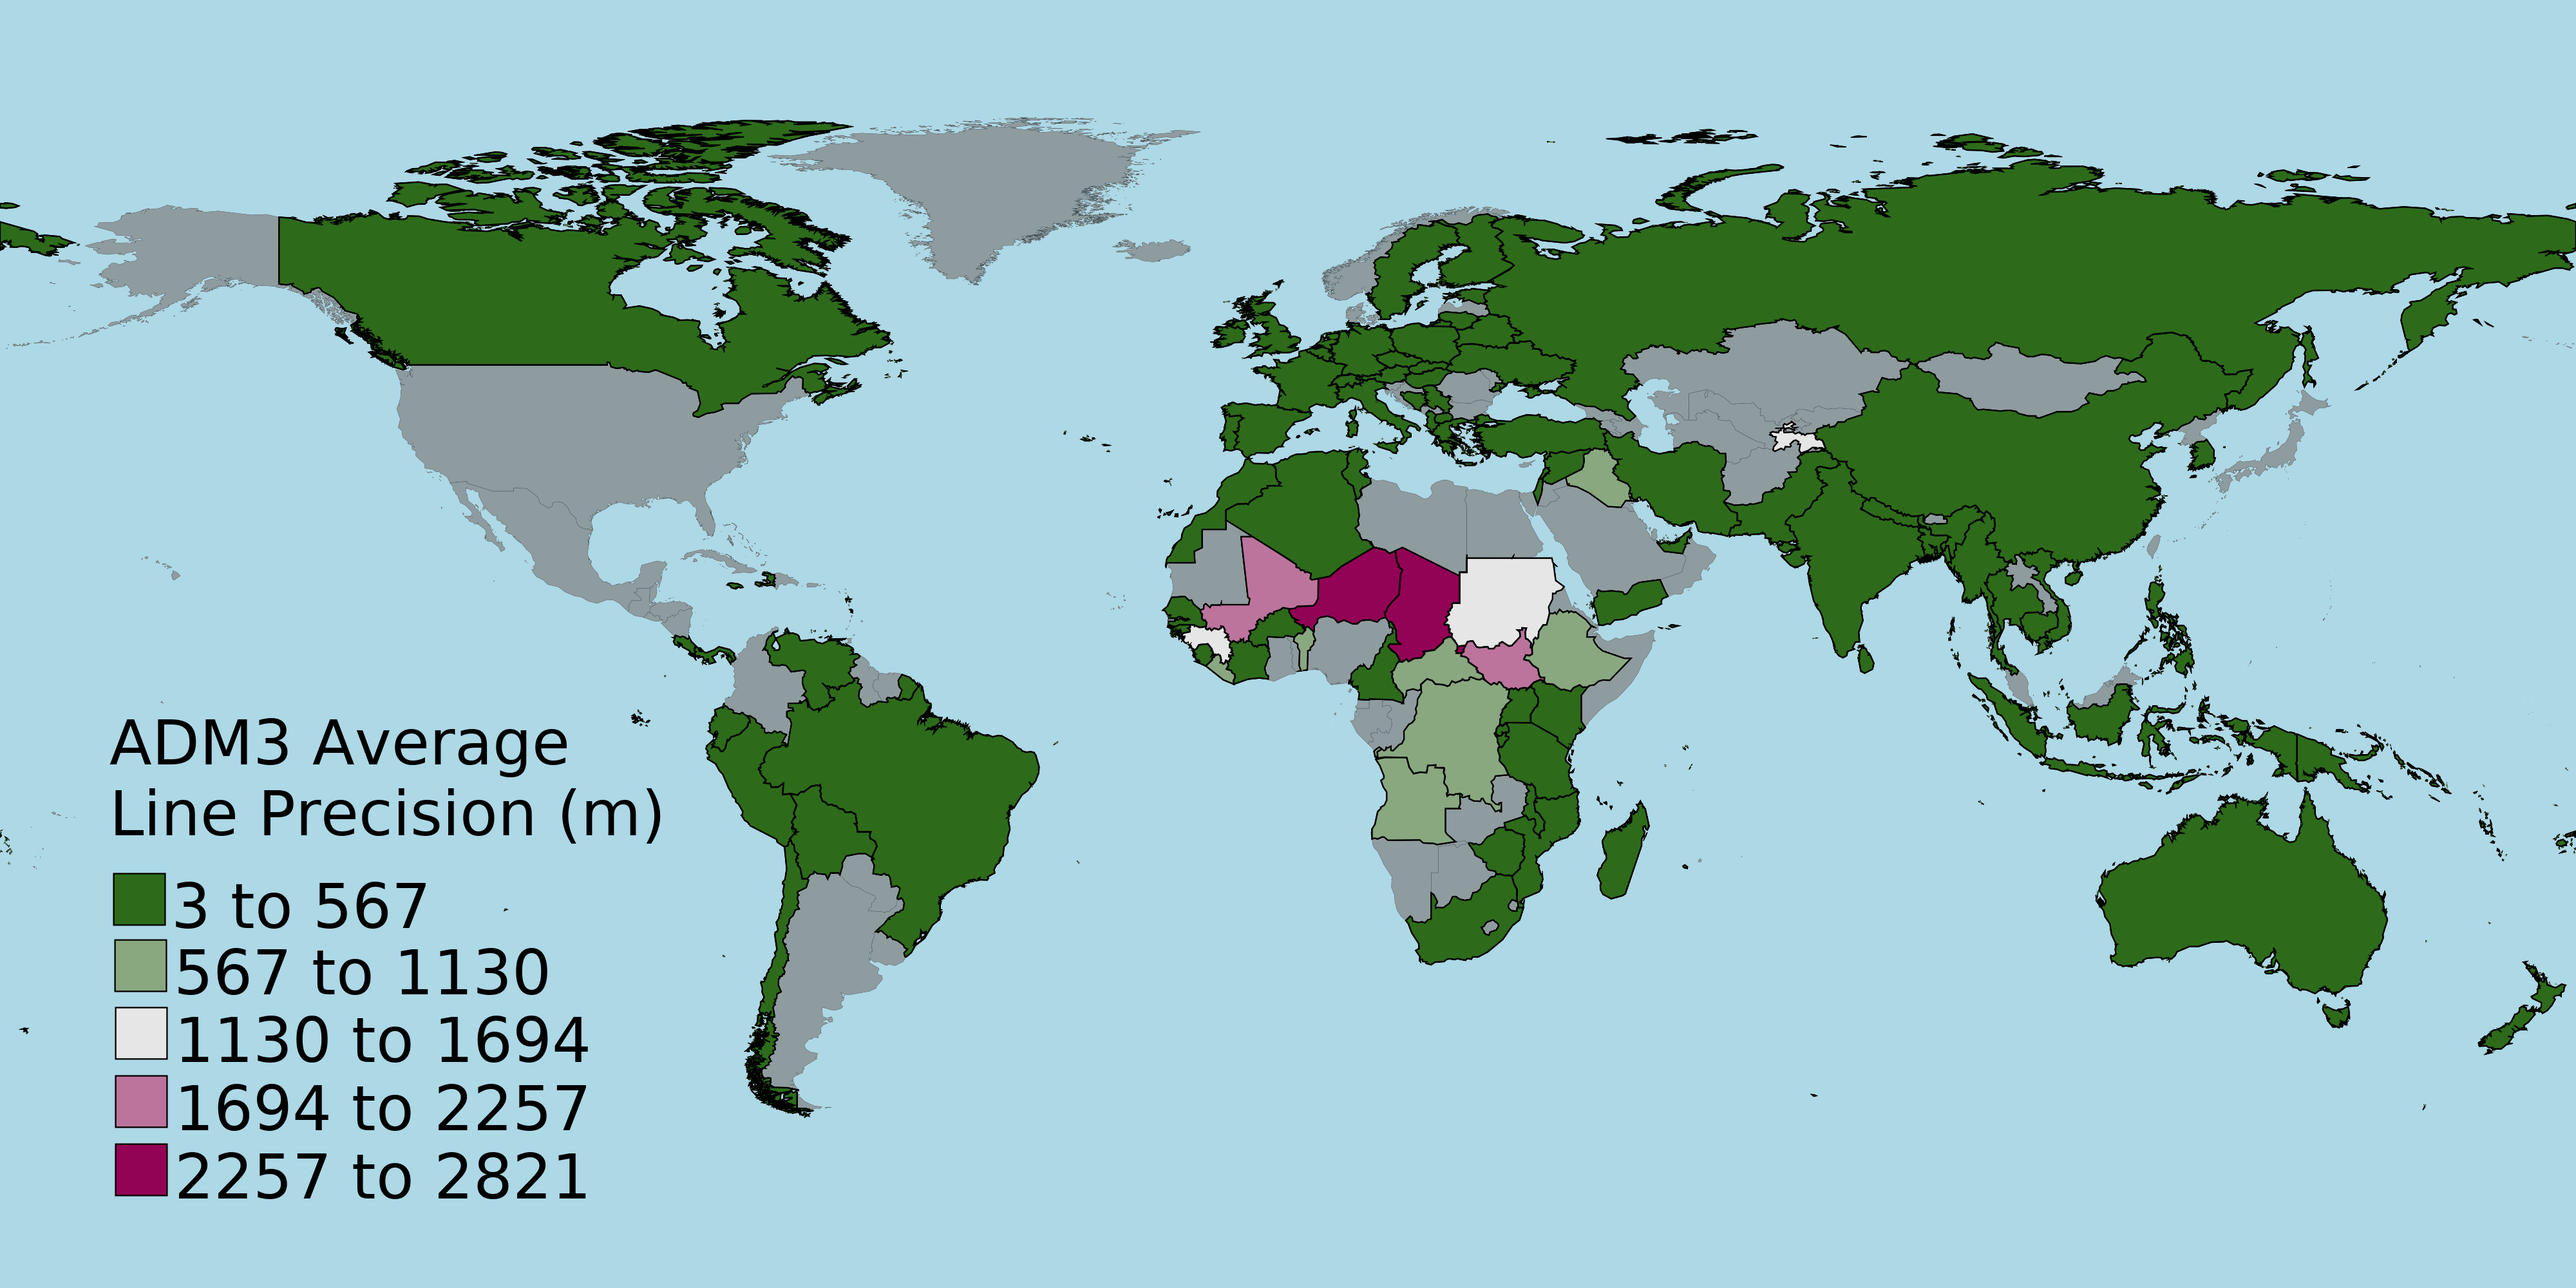
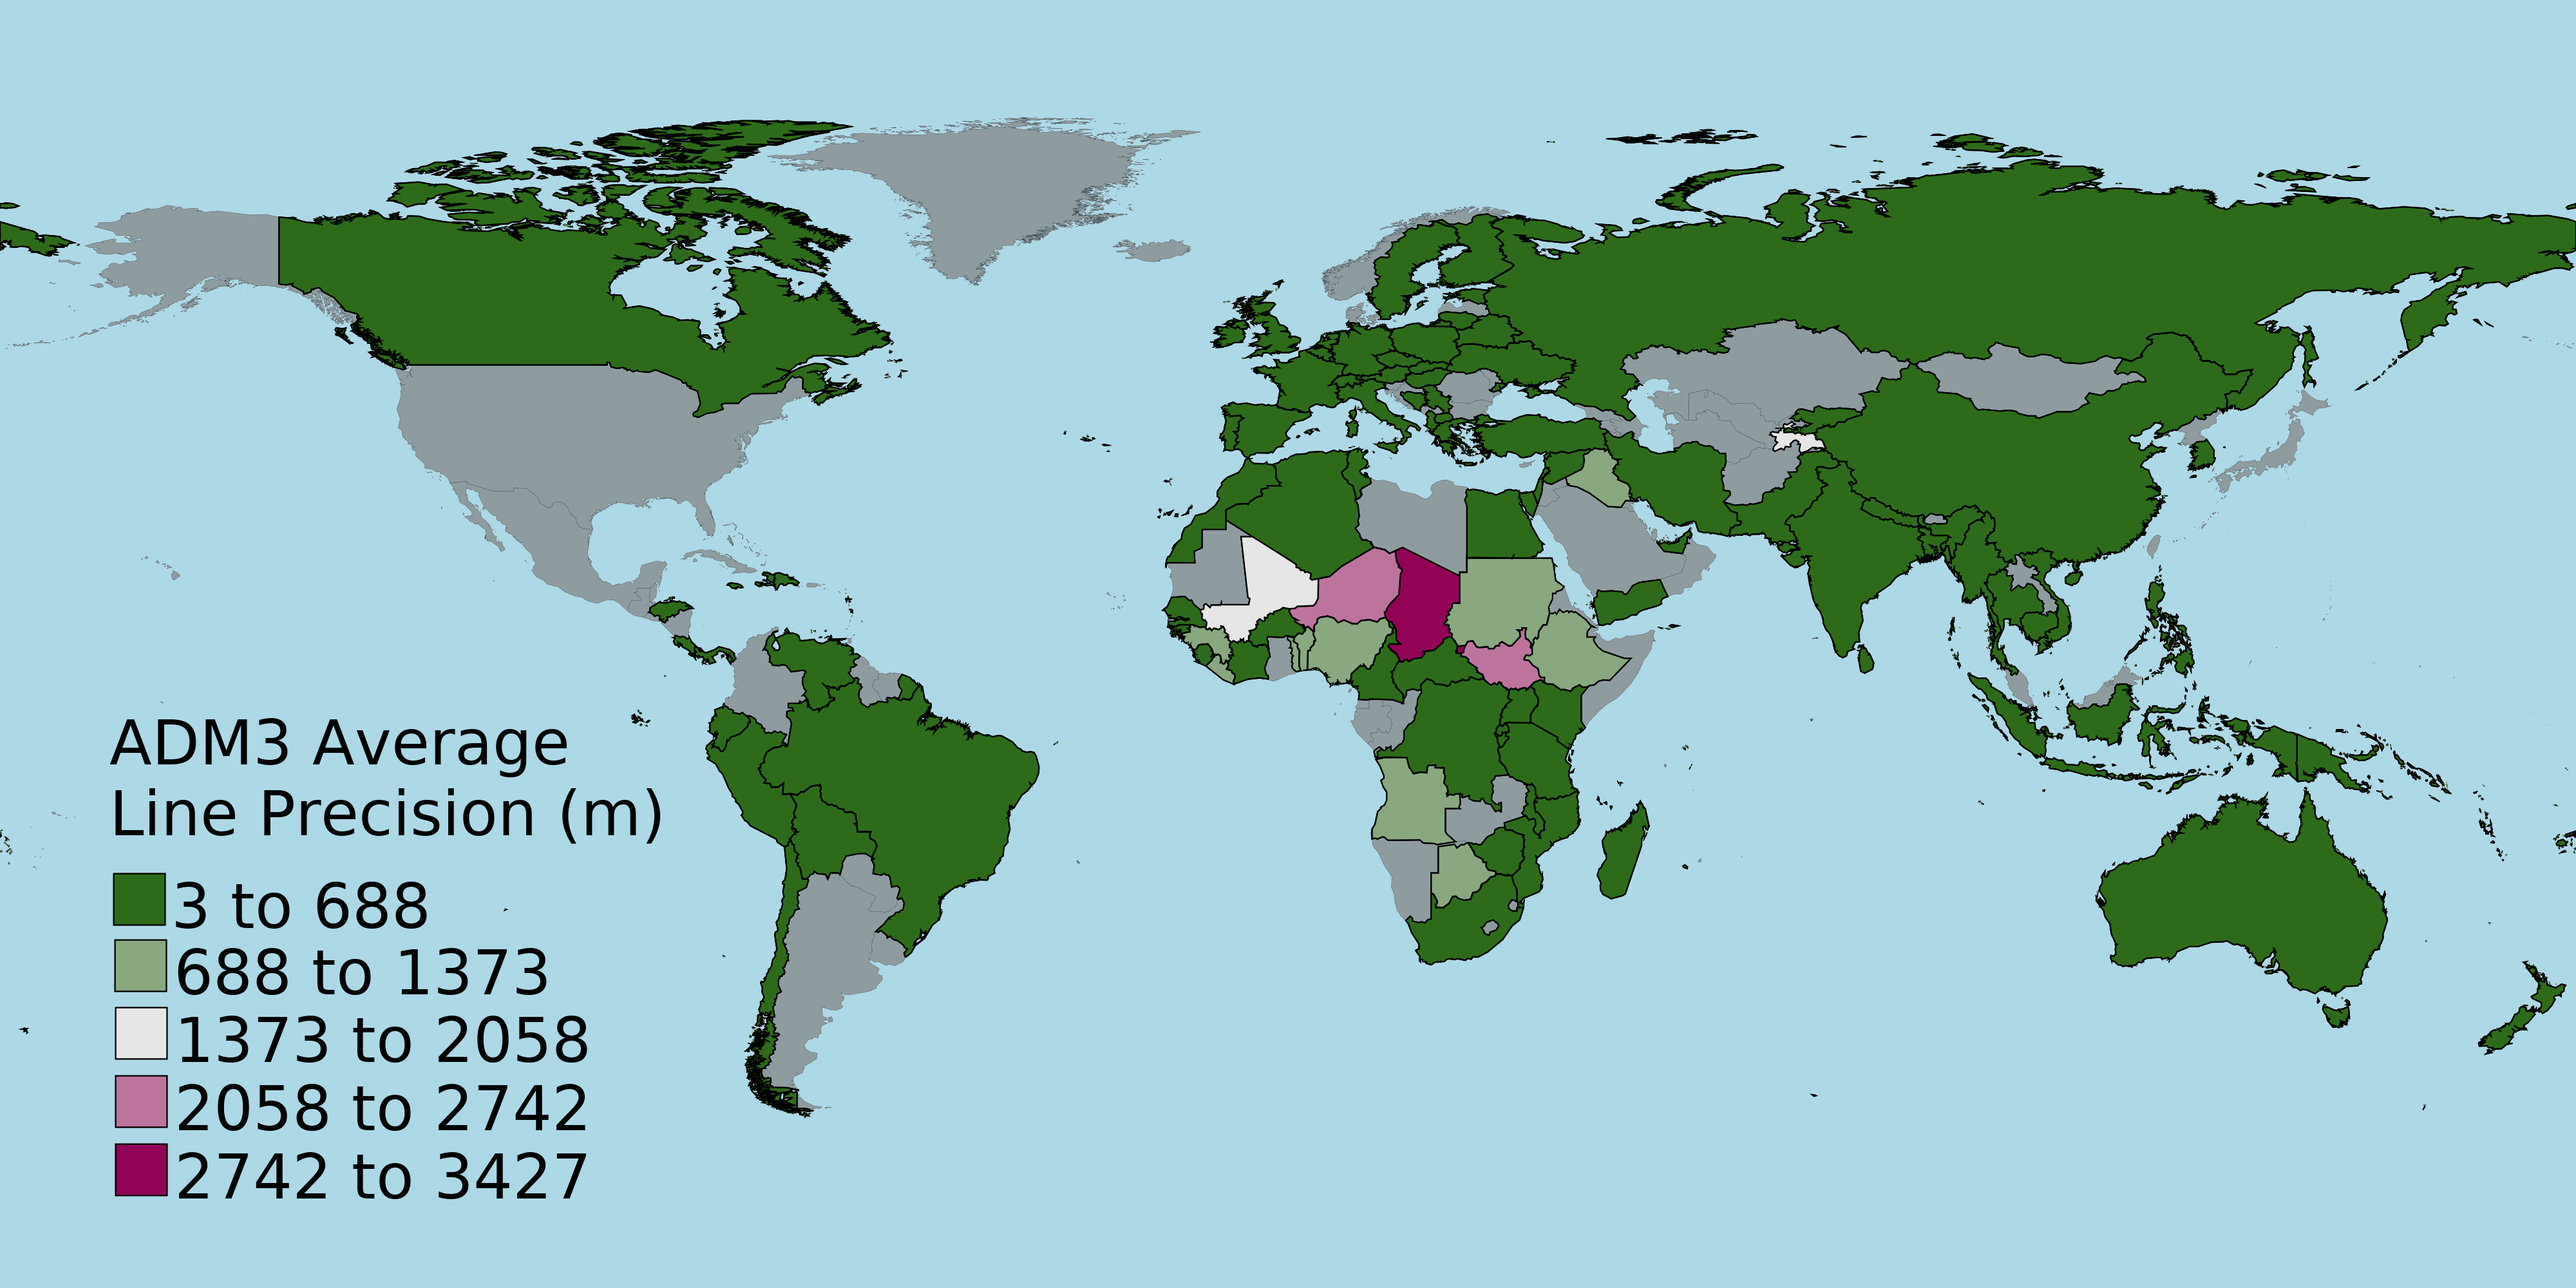
Update misc figs and stats to newest dataset versions

diff --git a/calc_source_stats.py b/calc_source_stats.py
@@ -9,7 +9,8 @@ import itertools
 from urllib.request import urlopen
 
 # params (note that gbHum = UN OCHA)
-SOURCES = ['geoBoundaries (Open)', 'GADM', 'OpenStreetMap', 'SALB', 'geoBoundaries (Humanitarian)', 'IPUMS', 'Natural_Earth']
+BRANCH = 'gadm4'
+SOURCES = ['geoBoundaries (Open)', 'GADM', 'OpenStreetMap', 'SALB', 'OCHA', 'Natural_Earth']
 
 # load country boundaries
 #url = 'https://www.geoboundaries.org/data/geoBoundariesCGAZ-3_0_0/ADM0/simplifyRatio_10/geoBoundariesCGAZ_ADM0.geojson'
@@ -19,7 +20,7 @@ with open('data/gb-countries-simple.json') as r:
 
 # collect stats
 def load_meta():
-    url = 'https://raw.githubusercontent.com/wmgeolab/geoContrast/main/releaseData/geoContrast-meta.csv'
+    url = f'https://raw.githubusercontent.com/wmgeolab/geoContrast/{BRANCH}/releaseData/geoContrast-meta.csv'
     raw = urlopen(url).read().decode('utf8')
     print(len(raw), raw[:100])
     reader = csv.DictReader(raw.split('\n'))
@@ -65,28 +66,33 @@ for level in range(0, 3+1):
         for src in SOURCES:
             vals = [_levelstats[level]['lineres'].get(src, None) for _iso,_levelstats in countrystats.items()
                     if regi == 0 or isoregions[_iso]==reg]
-            vals = [float(v) for v in vals if v != None]
-            sourcestats[src] = '{:,.0f}'.format(np.mean(vals)) if vals else 'NA'
+            vals = [float(v) for v in vals if v not in (None,'nan')]
+            sourcestats[src] = '{:,.0f}'.format(np.mean(vals)) if vals else '-'
         # year
         indics[f'year_{regi}'] = sourcestats = {}
         for src in SOURCES:
             vals = [_levelstats[level]['year'].get(src, None) for _iso,_levelstats in countrystats.items()
                     if regi == 0 or isoregions[_iso]==reg]
             vals = [float(v) for v in vals if v not in (None,'Unknown')]
-            sourcestats[src] = '{:.1f}'.format(np.mean(vals)) if vals else 'NA'
+            sourcestats[src] = '{:.1f}'.format(np.mean(vals)) if vals else '-'
 
 # print latex table
-rows = []
-for level,indics in levelstats.items():
-    rows.append('\\hline')
-    rows.append(f'\\textbf{{ADM{level}}} \\\\')
-    for src in SOURCES:
-        indicvals = []
-        for indic in ['lineres','year']:
+def print_table(indic):
+    rows = []
+    for level,indics in levelstats.items():
+        rows.append('\\hline')
+        rows.append(f'\\textbf{{ADM{level}}} \\\\')
+        for src in SOURCES:
+            indicvals = []
             indicvals += [indics[indic+f'_{regi}'][src] for regi,reg in enumerate(regions)]
-        valstrings = ' & '.join(indicvals)
-        src = src.replace('_',' ').replace(' (Open)','').replace('SALB','UN SALB').replace('geoBoundaries (Humanitarian)','UN OCHA').replace('OpenStreetMap','OSM')
-        row = f'\hspace{{0.1cm}} {src} & {valstrings} \\\\'
-        rows.append(row)
-print('\n'.join(rows))
+            valstrings = ' & '.join(indicvals)
+            src = src.replace('_',' ').replace(' (Open)','').replace('SALB','UN SALB').replace('geoBoundaries (Humanitarian)','UN OCHA').replace('OpenStreetMap','OSM')
+            row = f'\hspace{{0.1cm}} {src} & {valstrings} \\\\'
+            rows.append(row)
+    print('\n'.join(rows))
 
+print('YEAR')
+print_table('year')
+
+print('\nLINERES')
+print_table('lineres')

diff --git a/visualize_global_precision.py b/visualize_global_precision.py
@@ -9,7 +9,8 @@ from urllib.request import urlopen
 import pythongis as pg
 
 # params
-SOURCES = ['geoBoundaries (Open)', 'GADM v3.6', 'OSM-Boundaries', 'SALB', 'geoBoundaries (Humanitarian)', 'Natural Earth v4.1', 'IPUMS']
+BRANCH = 'gadm4'
+SOURCES = ['geoBoundaries (Open)', 'GADM', 'OpenStreetMap', 'SALB', 'OCHA', 'Natural_Earth']
 
 # load country boundaries
 #url = 'https://www.geoboundaries.org/data/geoBoundariesCGAZ-3_0_0/ADM0/simplifyRatio_10/geoBoundariesCGAZ_ADM0.geojson'
@@ -19,7 +20,7 @@ with open('data/gb-countries-simple.json') as r:
     
 # collect stats
 def load_meta():
-    url = 'https://raw.githubusercontent.com/wmgeolab/geoContrast/main/releaseData/geoContrast-meta.csv'
+    url = f'https://raw.githubusercontent.com/wmgeolab/geoContrast/{BRANCH}/releaseData/geoContrast-meta.csv'
     raw = urlopen(url).read().decode('utf8')
     print(len(raw), raw[:100])
     reader = csv.DictReader(raw.split('\n'))
@@ -36,7 +37,7 @@ def get_country_level_stats(iso, level):
                        ]
     if SOURCES:
         countrylevelrows = [r for r in countrylevelrows
-                            if r['boundarySource-1'] in SOURCES]
+                            if r['boundaryCollection'] in SOURCES]
     lineres = [r['statsLineResolution'] for r in countrylevelrows]
     lineres = [float(v) for v in lineres if v != 'Unknown']
     lineres = [v for v in lineres if not math.isnan(v)]

diff --git a/visualize_global_coverage.py b/visualize_global_coverage.py
@@ -9,7 +9,8 @@ from urllib.request import urlopen
 import pythongis as pg
 
 # params
-SOURCES = ['geoBoundaries (Open)', 'GADM v3.6', 'OSM-Boundaries', 'UN SALB', 'geoBoundaries (Humanitarian)', 'Natural Earth v4.1', 'IPUMS']
+BRANCH = 'gadm4'
+SOURCES = ['geoBoundaries (Open)', 'GADM', 'OpenStreetMap', 'SALB', 'OCHA', 'Natural_Earth']
 
 # load country boundaries
 #url = 'https://www.geoboundaries.org/data/geoBoundariesCGAZ-3_0_0/ADM0/simplifyRatio_10/geoBoundariesCGAZ_ADM0.geojson'
@@ -19,7 +20,7 @@ with open('data/gb-countries-simple.json') as r:
     
 # collect stats
 def load_meta():
-    url = 'https://raw.githubusercontent.com/wmgeolab/geoContrast/main/releaseData/geoContrast-meta.csv'
+    url = f'https://raw.githubusercontent.com/wmgeolab/geoContrast/{BRANCH}/releaseData/geoContrast-meta.csv'
     raw = urlopen(url).read().decode('utf8')
     print(len(raw), raw[:100])
     reader = csv.DictReader(raw.split('\n'))
@@ -33,7 +34,7 @@ def get_country_source_stats(iso, source):
                         for r in META
                         if r['boundaryISO']==iso
                         #and r['boundaryType']=='ADM{}'.format(level)
-                        and r['boundarySource-1'] == source
+                        and r['boundaryCollection'] == source
                        ]
     levels = [int(r['boundaryType'][-1]) for r in countrylevelrows]
     stats = {}

diff --git a/visualize_global_years.py b/visualize_global_years.py
@@ -9,7 +9,8 @@ from urllib.request import urlopen
 import pythongis as pg
 
 # params
-SOURCES = ['geoBoundaries (Open)', 'GADM v3.6', 'OSM-Boundaries', 'SALB', 'geoBoundaries (Humanitarian)', 'Natural Earth v4.1', 'IPUMS']
+BRANCH = 'gadm4'
+SOURCES = ['geoBoundaries (Open)', 'GADM', 'OpenStreetMap', 'SALB', 'OCHA', 'Natural_Earth']
 
 # load country boundaries
 #url = 'https://www.geoboundaries.org/data/geoBoundariesCGAZ-3_0_0/ADM0/simplifyRatio_10/geoBoundariesCGAZ_ADM0.geojson'
@@ -19,7 +20,7 @@ with open('data/gb-countries-simple.json') as r:
     
 # collect stats
 def load_meta():
-    url = 'https://raw.githubusercontent.com/wmgeolab/geoContrast/main/releaseData/geoContrast-meta.csv'
+    url = f'https://raw.githubusercontent.com/wmgeolab/geoContrast/{BRANCH}/releaseData/geoContrast-meta.csv'
     raw = urlopen(url).read().decode('utf8')
     print(len(raw), raw[:100])
     reader = csv.DictReader(raw.split('\n'))
@@ -36,7 +37,7 @@ def get_country_level_stats(iso, level):
                        ]
     if SOURCES:
         countrylevelrows = [r for r in countrylevelrows
-                            if r['boundarySource-1'] in SOURCES]
+                            if r['boundaryCollection'] in SOURCES]
     yrs = [r['boundaryYearRepresented'] for r in countrylevelrows]
     yrs = [int(yr) for yr in yrs if yr != 'Unknown']
     stats = {}
